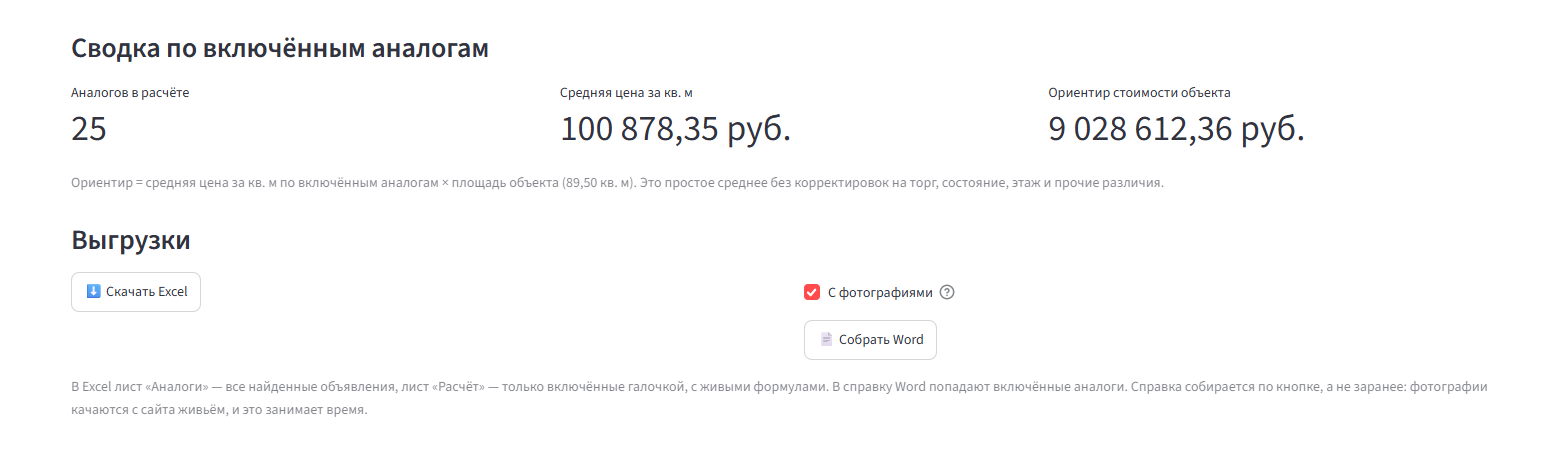
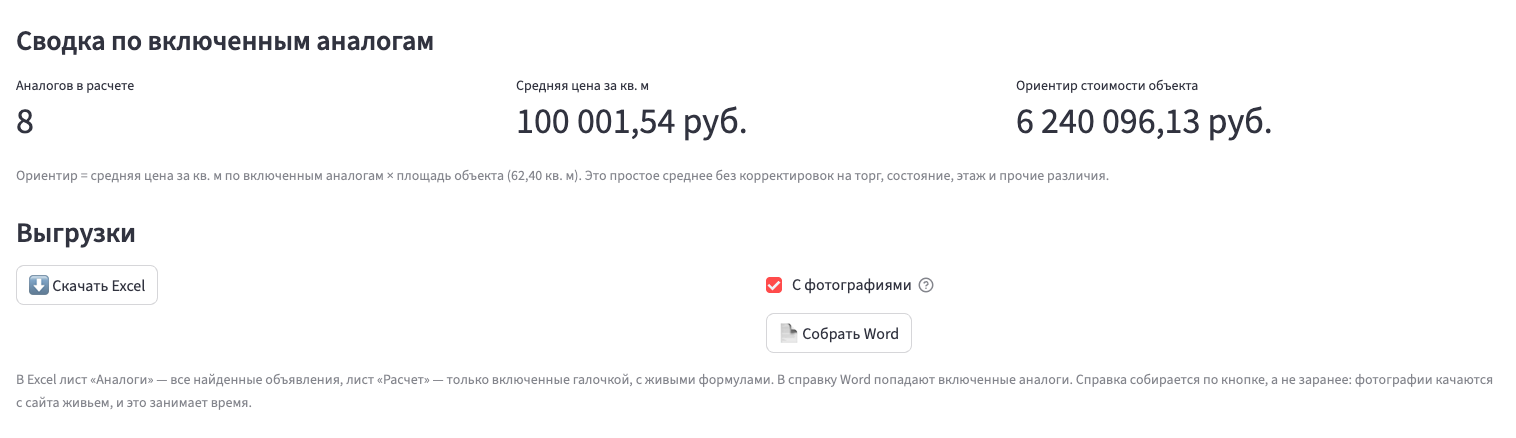
Снимки экрана README на учебном наборе
Снимки карточки объекта, аналогов, сводки с выгрузками и сборки справки
сделаны заново на версии 2.1.1 с учебным набором, подписи на них без «ё».
В README отмечено, что объект и объявления на снимках вымышлены, и что
справка Word на учебном наборе собирается без фотографий.

diff --git a/README.md b/README.md
@@ -8,7 +8,8 @@
 
 Кроме учебного набора с вымышленными данными, в приложении нет сохраненных
 данных и заготовленных ответов, поэтому при каждом нажатии кнопки запрос
-отправляется в интернет заново.
+отправляется в интернет заново. Снимки экрана в этом описании сделаны на
+учебном наборе, поэтому объект и объявления на них вымышлены.
 
 ![Карточка объекта](screen_kartochka.png)
 
@@ -23,7 +24,7 @@
 отбираются с допуском, который вы задаете ползунком в боковой панели. Найденные
 объявления сортируются по тому, насколько их площадь близка к площади объекта.
 
-![Аналоги и сводка](screen_analogi.png)
+![Аналоги](screen_analogi.png)
 
 Каждый аналог включается в расчет или исключается из него галочкой. По
 отмеченным аналогам рассчитывается средняя цена квадратного метра, а по ней
@@ -32,7 +33,7 @@
 учтены. Это отправная точка для расчета, и выдавать ориентир за результат
 оценки или заменять им отчет об оценке нельзя.
 
-![Выгрузки](screen_vygruzki.png)
+![Сводка и выгрузки](screen_vygruzki.png)
 
 ## Карта объекта и аналогов
 
@@ -61,7 +62,9 @@
 включенном переключателе запросы к НСПД и Яндекс.Недвижимости не отправляются,
 поэтому на наборе программу можно проверить, когда геопортал недоступен
 (например, через зарубежный VPN) или Яндекс.Недвижимость показывает проверку
-«я не робот». По умолчанию переключатель выключен.
+«я не робот». Фотографий у объявлений набора нет, поэтому перед сборкой
+справки Word галочка «С фотографиями» снимается. По умолчанию переключатель
+выключен.
 
 ## Как запустить
 
